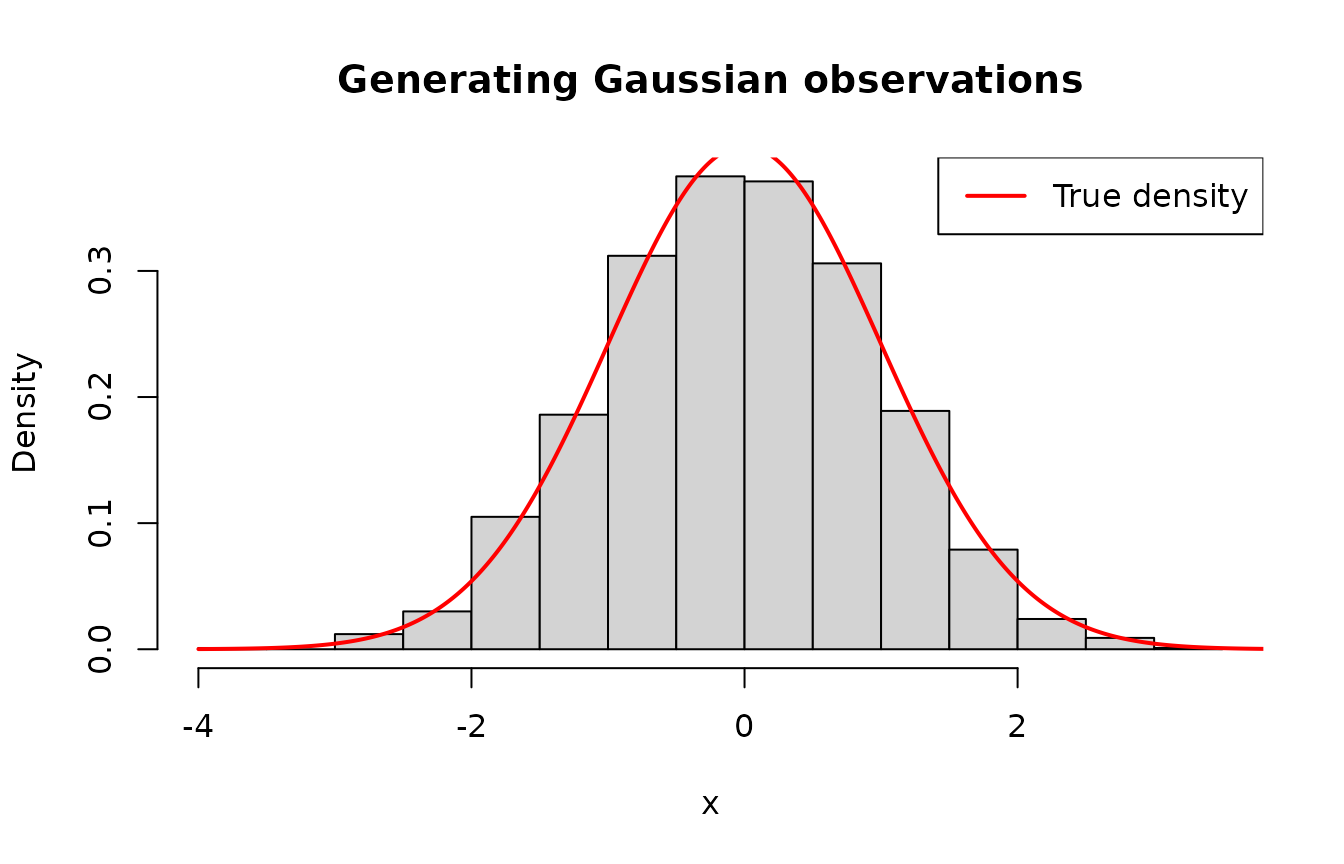
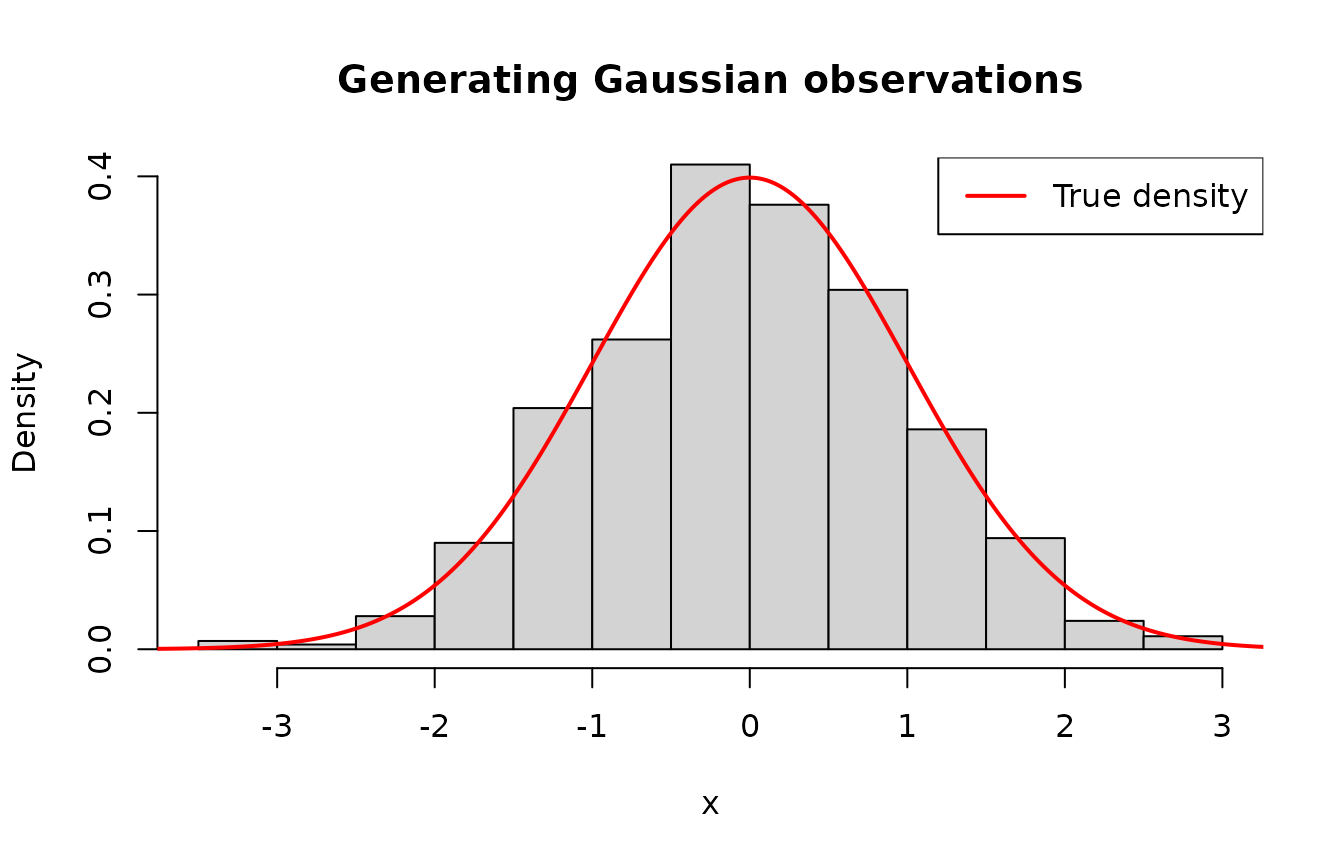
Update vignette

diff --git a/docs/articles/acceptance_rejection.html b/docs/articles/acceptance_rejection.html
@@ -383,7 +383,8 @@ method. Note that <code>continuous = TRUE</code>.</p>
 <span>  <span class="va">data</span>,</span>
 <span>  main <span class="op">=</span> <span class="st">"Generating Gaussian observations"</span>,</span>
 <span>  xlab <span class="op">=</span> <span class="st">"x"</span>,</span>
-<span>  probability <span class="op">=</span> <span class="cn">TRUE</span></span>
+<span>  probability <span class="op">=</span> <span class="cn">TRUE</span>,</span>
+<span>  ylim <span class="op">=</span> <span class="fu"><a href="https://rdrr.io/r/base/c.html" class="external-link">c</a></span><span class="op">(</span><span class="fl">0</span>, <span class="fl">0.4</span><span class="op">)</span></span>
 <span><span class="op">)</span></span>
 <span></span>
 <span><span class="va">x</span> <span class="op">&lt;-</span> <span class="fu"><a href="https://rdrr.io/r/base/seq.html" class="external-link">seq</a></span><span class="op">(</span><span class="op">-</span><span class="fl">4</span>, <span class="fl">4</span>, length.out <span class="op">=</span> <span class="fl">500L</span><span class="op">)</span></span>
